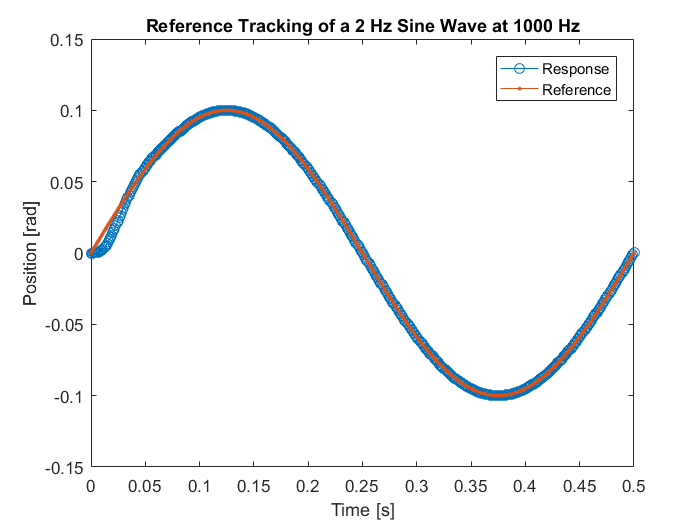
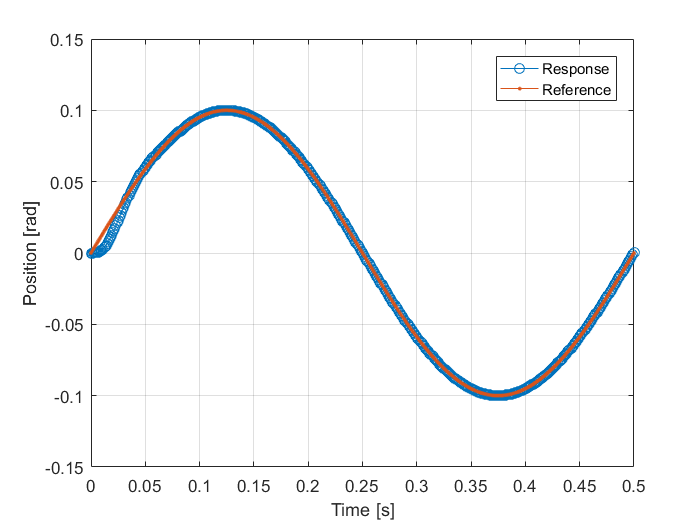
Modified main and image updates

diff --git a/main.m b/main.m
@@ -66,15 +66,15 @@ end
 % sys_id is the indirect design estimator feedback system
 
 %% Direct Digital Control Design
-for tdx = 1:length(T)
+% for tdx = 1:length(T)
     tdx = 3;
     Ts = T(tdx);
     pole_K_DT = exp(pole_K * Ts);
     pole_L_DT = exp(pole_L * Ts);
     [K_d,L_d, N_d, sys_d, sys_CL] = dcontrold_dir(sys_c, pole_K_DT, pole_L_DT, Ts);
     analysis(20+tdx, sys_c, sys_CL, K_d, L_d, 1/Ts, Wr);
-end
-Ts = T(end); %explicitly pick Ts
+% end
+% Ts = T(end); %explicitly pick Ts
 
 %% simulation
 [ Ref_d, Time_d, y_lti_d, y_nl_d, u_lti_d, u_nl_d ] = simulation(sys_d, K_d, L_d, N_d);
@@ -88,15 +88,15 @@ verify_design(data_d,30);
 
 %% Problem # 7.a
 % Track a 2 Hz sine wave without an internal model
-QKnm_sin = 10000*eye(2);
-RKnm_sin =0.01;
-QLnm_sin = 10;
-RLnm_sin = 0.01;
-[pole_K_DT_sine_nomodel, ~, ~] = dlqr(sys_d.A, sys_d.B, QKnm_sin, RKnm_sin);
-[~, pole_L_DT_sine_nomodel, ~, ~] = kalman(sys_d, QLnm_sin, RLnm_sin);
-[~, ~, ~, ~, sys_CLNoModel] = dcontrold_dir(sys_c, pole_K_DT_sine_nomodel, pole_L_DT_sine_nomodel, Ts);
-sineWaveTracker(sys_CLNoModel, 2, Ts, 61);
-% sineWaveTracker(sys_CL, 2, Ts);
+% QKnm_sin = 10000*eye(2);
+% RKnm_sin =0.01;
+% QLnm_sin = 10;
+% RLnm_sin = 0.01;
+% [pole_K_DT_sine_nomodel, ~, ~] = dlqr(sys_d.A, sys_d.B, QKnm_sin, RKnm_sin);
+% [~, pole_L_DT_sine_nomodel, ~, ~] = kalman(sys_d, QLnm_sin, RLnm_sin);
+% [~, ~, ~, ~, sys_CLNoModel] = dcontrold_dir(sys_c, pole_K_DT_sine_nomodel, pole_L_DT_sine_nomodel, Ts);
+% sineWaveTracker(sys_CLNoModel, 2, Ts, 61);
+sineWaveTracker(sys_CL, N_d, 70, 2, Ts);
 
 %% Problem # 7.b
 idt = 70; % Plot indicator
@@ -109,6 +109,6 @@ figure(idt*10 + 2);
 step(sys_CLModel); title('Closed-Loop Plant with Internal Model Step Response');
 stepInfoCLModel = stepinfo(sys_CLModel);
 
-sineWaveTracker(sys_CLModel, 2, Ts, idt*10+8);
+sineWaveTracker(sys_CLModel, 0, 71, 2, Ts);
 
 analysisGivenLoopGain( loopGainModel, idt, 1/Ts);

diff --git a/sineWaveTracker.m b/sineWaveTracker.m
@@ -1,27 +1,33 @@
-function sineWaveTracker( sys, w, Ts, tend, idt)
+function sineWaveTracker( sys, N, idt, w, Ts, tend)
 %SINEWAVETRACKER Track a given sinusoidal reference trajectory.
 %   Given a system, track a sinusoid with a frequency of w at Ts for tend
 %   time.
 
-if nargin < 4 % If ending time is not specified
+if nargin < 6 % If ending time is not specified
     tend = 10;
 end
 
 % Construct the sinusoidal input
-amp = 0.1
+amp = 0.1;
 t = [0:Ts:tend];
 r = amp*sin(2*pi*w*t);
+if N > 0
+    rn = N*r;
+else
+    rn = r;
+end
 
 % Run the simulation
-[y, t, ~] = lsim(sys, r, t);
+[y, t, ~] = lsim(sys, rn, t);
 
 % Plot the reference input and the output
 figure(idt);
 plot(t, y, 'o-', t, r, '.-'); 
-title(['Reference Tracking of a ', num2str(w), ' Hz Sine Wave at ', num2str(1/Ts), ' Hz']);
+% title(['Reference Tracking of a ', num2str(w), ' Hz Sine Wave at ', num2str(1/Ts), ' Hz']);
 xlabel('Time [s]'); ylabel('Position [rad]'); 
 ylim([-1.5*amp, 1.5*amp]);
 legend('Response','Reference');
+grid on;
 
 end
 

diff --git a/sysStateEstimatorFeedbackWithModel.m b/sysStateEstimatorFeedbackWithModel.m
@@ -72,6 +72,8 @@ Ccl = [ Caug,       zeros(nOutputs, nStates)    ];
 Dcl = 0;
 
 sysCL = ss(Acl, Bcl, Ccl, Dcl, Ts);
+eig_Acl = eig(Acl);
+disp(['Eigenvalues of closed loop poles: ', eig_Acl]);
 
 %% =============================== %%
 %% Loop Gain %%
